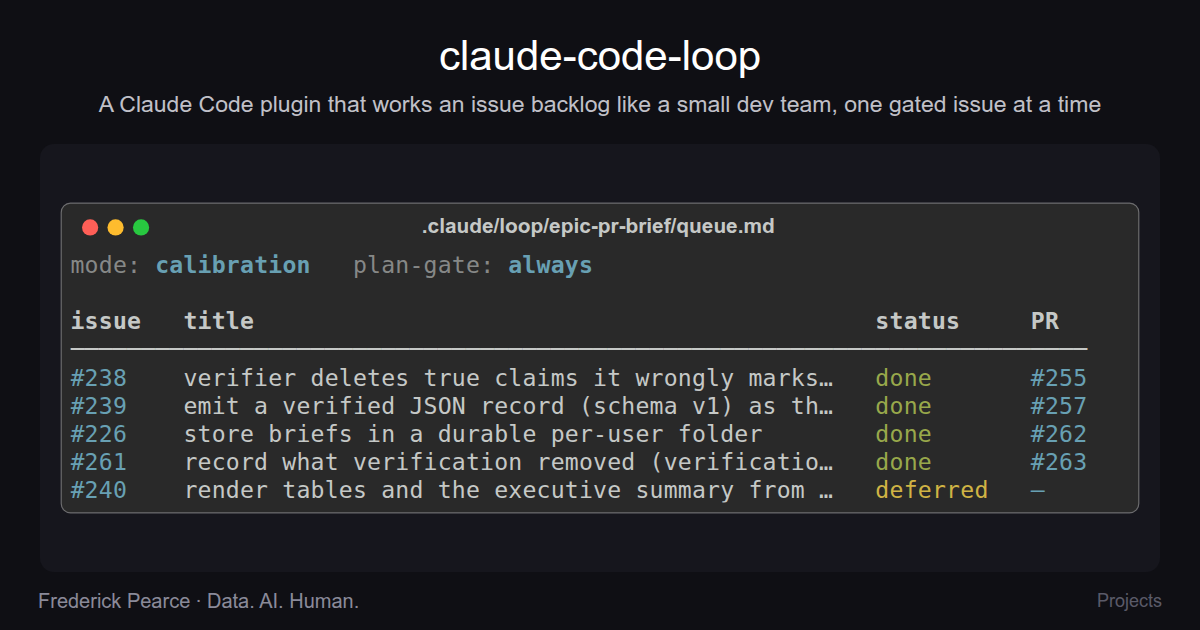
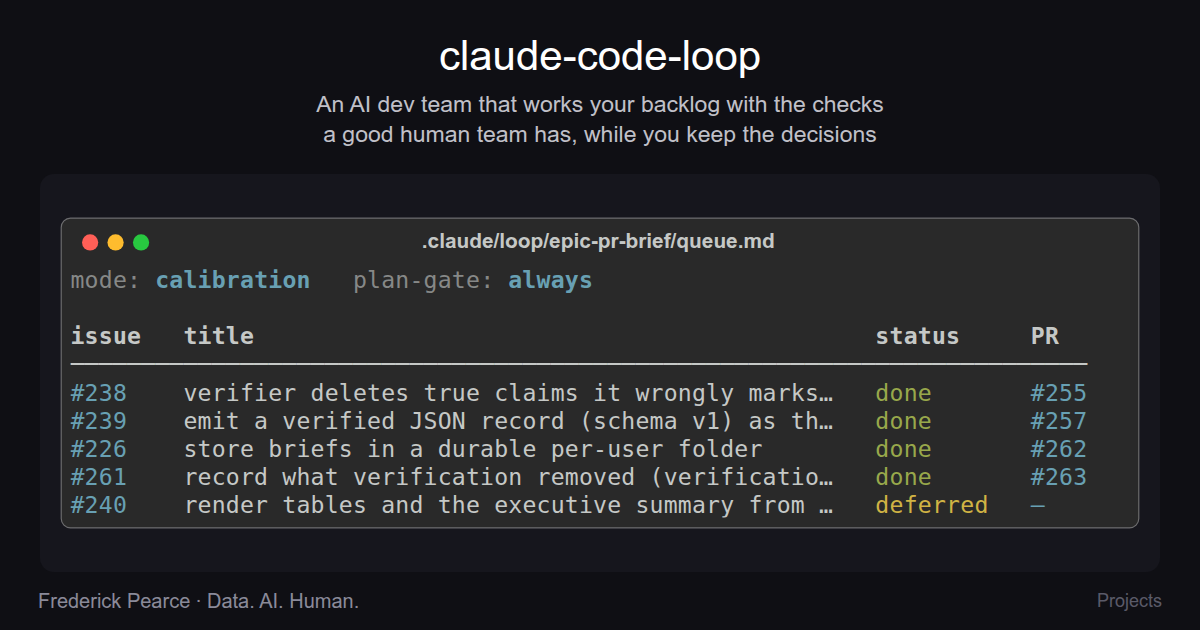
docs: reframe the claude-code-loop page for executive readers
Lead with outcomes (builds the right thing, catches problems early,
takes care with security, keeps the owner in charge with a record,
measures cost), each with a concrete example. Move the mechanics into a
condensed Under the Hood section for developers, cut the AgentFluent
origin to one sentence, soften Status to pre-1.0 with 1.0 coming soon,
and add a soft LinkedIn call to action.

Security wording follows the README: the never-do rules are
instructions, not a sandbox; only the approval stops and the guard
hook are enforced. Jargon in the upper sections is glossed or replaced
after a plain-language review. New description, so the share card is
regenerated.

Claude-Session: https://claude.ai/code/session_01HFowjq2FgHihmDCDL5w1gH

Changed region(s): [[0.0617, 0.3016, 0.9558, 0.8444], [0.0617, 0.1508, 0.925, 0.2413]]

diff --git a/_projects/claude-code-loop.md b/_projects/claude-code-loop.md
@@ -1,7 +1,7 @@
 ---
 layout: page
 title: claude-code-loop
-description: A Claude Code plugin that works an issue backlog like a small dev team, one gated issue at a time
+description: An AI dev team that works your backlog with the checks a good human team has, while you keep the decisions
 img: assets/img/claude_code_loop_ledger.svg
 og_image: https://frederick-douglas-pearce.github.io/assets/img/claude-code-loop-og.png
 importance: 2
@@ -12,48 +12,58 @@ enable_math: false
 
 ## Overview
 
-claude-code-loop is a [Claude Code](https://code.claude.com) plugin, `dev-loop`, that works through a GitHub issue backlog the way a small, disciplined dev team would. Each invocation takes exactly one issue end to end: scope it, plan it, have the plan design-reviewed, implement it on a branch, open the PR, run code review and (where the change calls for it) security review, have an agent that didn't write the code check it against the acceptance criteria, and merge. By default it stops for your approval on every plan before any code is written and on every merge.
+claude-code-loop is an AI dev team that works through your backlog with the checks a good human team has, while you keep the decisions. It runs inside [Claude Code](https://code.claude.com) as a plugin. It takes one issue at a time from your GitHub backlog and carries it from scoping to merge. A product manager agent scopes it, an architect agent reviews the plan when the change calls for it, and the main agent builds it. Other agents review the code, and an agent that didn't write it checks the result. By default it stops for your approval on every plan before any code is written and on every merge.
 
-Everything the loop does is written to a ledger on disk rather than kept in the model's context. That's what lets the next invocation pick up where the last one stopped, whether the session ended with a `/clear`, a compaction, or a crash.
+What that gets you:
 
-It started inside **[AgentFluent](/projects/agentfluent/)**, where a pm agent, an architect agent and Claude already worked as a team, but every handoff between them happened because I typed it, and I often forgot to bring the architect in until a plan was already written. The loop made remembering its job. It ran AgentFluent's v0.10.x and v0.11.0 releases and was then extracted into its own repo so any project can use it. It now drives seven repos, including itself: this repo works its own backlog with the loop it develops.
+- **The right thing gets built.** A feature has to name who it's for, and what would show it's the wrong thing to build, before any code exists.
+- **Problems surface early.** The design is reviewed before code, and the work is never checked by the agent that did it.
+- **Security gets a look.** Built-in security review where the change calls for it, and a short list of rules on what the loop must never do.
+- **You stay in charge, with a record.** Two human approvals, and every gate decision added to a running record on disk.
+- **Cost is measured, not guessed.** I price every session from Claude Code's own records and use the numbers to decide what to change.
+
+It runs today on seven projects, including its own: the loop works its own backlog. It was built inside my **[AgentFluent](/projects/agentfluent/)** project and then pulled out so any project can use it.
 
 <div class="mt-5"></div>
 
 ## A Dev Team, in a Loop
 
-The pipeline is modeled on the roles of a human team. Each role is a binding in a per-project config file, and the plugin ships no agent definitions of its own: the scope and design roles point at subagents you already have.
+The pipeline is modeled on the roles of a human team. Each project's settings file says which agent fills each role. The plugin doesn't come with agents of its own: you point the product manager and architect roles at agents you already have.
 
-| Team role             | What it does in the loop                                                                            |
-| --------------------- | --------------------------------------------------------------------------------------------------- |
-| **Product manager**   | answers scope, priority and requirements questions, and splits an issue too large for one pass      |
-| **Architect**         | reviews the plan before any code is written, read-only, when a trigger fires or the loop is unsure  |
-| **Developer**         | the orchestrator itself: plans, implements, runs your lint, type and test commands, opens the PR    |
-| **Code reviewers**    | parallel read-only reviewers over the diff, each handed the issue's acceptance criteria             |
-| **Security reviewer** | runs where the route and the touched files call for it                                              |
-| **QA**                | a fresh agent that checks every acceptance criterion and whether the tests would catch a regression |
-| **Owner**             | you: approve plans, approve merges, and settle anything the agents disagree on                      |
+| Team role             | What it does in the loop                                                                                                          |
+| --------------------- | --------------------------------------------------------------------------------------------------------------------------------- |
+| **Product manager**   | answers scope, priority and requirements questions, and splits an issue too large for one pass                                    |
+| **Architect**         | reviews the plan before any code is written, when the change calls for it or the loop is unsure; it reads but never edits code    |
+| **Developer**         | the main agent, which also coordinates the others: plans, writes the code, runs your automated checks, opens the pull request     |
+| **Code reviewers**    | several reviewer agents read the change side by side, each given the issue's acceptance criteria (its written definition of done) |
+| **Security reviewer** | runs when the kind of change and the files it touches call for it                                                                 |
+| **QA**                | an agent that didn't do the work checks every acceptance criterion, and whether the tests would catch the code breaking later     |
+| **Owner**             | you: approve plans, approve merges, and settle anything the agents disagree on                                                    |
 
-A business analyst (ba), which keeps a glossary so the roles stop talking past each other, isn't in the engine yet. Two projects have wired one in through their own configs.
+A business analyst agent, which keeps a glossary so the roles stop talking past each other, isn't built into the plugin yet. Two of my projects add one through their own settings files.
 
 <div class="mt-5"></div>
 
-## How It Works
+## What It Gives You
+
+Each step the work must pass before it moves on, whether an agent's review or your approval, is a gate.
 
 <div class="row mt-4">
     <div class="col-md-6 mb-3 mb-md-0">
         <div class="card h-100">
             <div class="card-body">
-                <h3 class="card-title">Routed by risk</h3>
-                <p class="card-text mb-0">Each issue is routed by its labels and the path rules in your config. A <code>code</code> change gets the full pipeline and every gate. <code>research</code> gets a lighter plan, <code>docs</code> skips the architect and security passes, and <code>stub-defer</code> is journaled and left in the backlog.</p>
+                <h3 class="card-title">It builds the right thing</h3>
+                <p class="card-text">Agents have made features easier to build, not easier to choose. Before any code exists, a feature plan has to name who it's for and an observation that would show the feature is the wrong thing to build. An issue too big for one pass goes to the product manager agent for a split. If a plan would deliver less than the issue asks, the cut is recorded on the issue and the removed scope is filed as a new one.</p>
+                <p class="card-text mb-0"><strong>Example:</strong> in my election-data project, a proposed cache fix assumed visitors would request the same uncached page at the same moment. The plan checked a month of the dashboard's logs and found no two requests for the same page within 30 seconds. I closed it with no code written.</p>
             </div>
         </div>
     </div>
     <div class="col-md-6">
         <div class="card h-100">
             <div class="card-body">
-                <h3 class="card-title">Two human gates</h3>
-                <p class="card-text mb-0">The plan gate and the merge gate are set separately, so loosening how much planning you review never loosens what merges without you. Auto-merge exists only for routes you have explicitly graduated, and never for a feature, a breaking change, or anything touching a security surface.</p>
+                <h3 class="card-title">It catches problems early and often</h3>
+                <p class="card-text">When a change calls for it, the architect reviews the plan before any code is written. Review is done by agents that didn't write the code, and a fix is never checked by the agent that wrote it. On a code change that alters behavior, the final QA check also breaks the code on purpose, in a throwaway copy, to see whether the tests notice. Code review asks the same question of any new tests.</p>
+                <p class="card-text mb-0"><strong>Example:</strong> when a reviewer finds a problem serious enough to hold the merge, and it raises a design question, the loop stops and brings it to you, with the architect's ruling on scope attached. It never dismisses the problem on its own.</p>
             </div>
         </div>
     </div>
@@ -63,16 +73,30 @@ A business analyst (ba), which keeps a glossary so the roles stop talking past e
     <div class="col-md-6 mb-3 mb-md-0">
         <div class="card h-100">
             <div class="card-body">
-                <h3 class="card-title">A ledger, not a context window</h3>
-                <p class="card-text mb-0">Each run keeps a work queue, an append-only journal of every gate decision, and a plan per issue under <code>.claude/loop/</code>. On resume, the loop checks each unfinished row against live git and PR state before starting anything new.</p>
+                <h3 class="card-title">It takes care with security</h3>
+                <p class="card-text">There's a built-in security review, run when the kind of change and the files it touches call for it. The loop is instructed never to merge while the automated checks are failing, never to overwrite history on GitHub, to work on one pull request at a time, never to sweep unrelated files into a commit, and never to edit its own settings. Those rules are instructions the agent is told to follow, not a sandbox. What is enforced is narrower: the stops for your approval, and a guard against overwriting the loop's record, within limits the README lists. For a hard boundary, use Claude Code's own permission settings.</p>
+                <p class="card-text mb-0"><strong>Example:</strong> auto-merge is off by default, and even when you turn it on it never applies to a feature, a breaking change, or anything touching security-sensitive code.</p>
             </div>
         </div>
     </div>
     <div class="col-md-6">
         <div class="card h-100">
             <div class="card-body">
-                <h3 class="card-title">Tests that would notice</h3>
-                <p class="card-text mb-0">On a change that alters behavior, the acceptance gate breaks the guarded code on purpose in a throwaway copy of your tree, runs your suite, and reports any test that stayed green. A test that can't fail is protection you think you have and don't.</p>
+                <h3 class="card-title">You stay in charge, with a record</h3>
+                <p class="card-text">You set the two approvals separately: one on the plan, one on the merge. Choosing to review fewer plans never lets more code merge without you. Every gate decision, each agent's review result and each of your approvals, is added to a running record on disk, so the record doesn't depend on the model's memory. The loop picks up where it stopped after the session's working memory is cleared or condensed, or after a crash.</p>
+                <p class="card-text mb-0"><strong>Example:</strong> if the architect materially rewrites a plan, the loop stops and shows you what changed before any code is written. No setting turns that stop off.</p>
+            </div>
+        </div>
+    </div>
+</div>
+
+<div class="row mt-3">
+    <div class="col-12">
+        <div class="card h-100">
+            <div class="card-body">
+                <h3 class="card-title">Cost is measured, not guessed</h3>
+                <p class="card-text">I measure what each session costs from Claude Code's own records, and I've learned that the bill follows how many back-and-forth steps the main agent takes, not how much text it is holding at each step. So the savings come from fewer review rounds, not shorter text. The next lever is a cheaper model for some roles. Early work on it is merged but not released, and today every role uses the main agent's model, so nothing changes yet.</p>
+                <p class="card-text mb-0"><strong>Example:</strong> in the October review, on v0.3.1, the median session working one issue cost $17.61 in the loop's own project and $35.61 in the election-data project, including the other agents it called on, which made up about a third of the cost.</p>
             </div>
         </div>
     </div>
@@ -80,49 +104,32 @@ A business analyst (ba), which keeps a glossary so the roles stop talking past e
 
 <div class="mt-5"></div>
 
-## What Sets It Apart
+## Under the Hood
 
-- **One issue per invocation, end to end.** It's a single supervised orchestrator handling one routed issue at a time, not a graph of agents running in parallel. Re-invoke it for the next issue, or let Claude Code's `/loop` drive it.
-- **A feature has to name its user before any code exists.** A feature plan opens with a map of one to three user stories: who benefits, how often real usage hits it, and a falsifier, an observation that would show the feature is the wrong thing to build. When that check is cheap, the plan runs it. A plan with no credible user goes back to the pm, and the gate has since stopped features in two repos before any code was written.
-- **Scope cut in a plan is recorded, not dropped.** If a plan would deliver less than an acceptance criterion asks, the engine records the amendment on the issue and files the removed scope as a new issue.
-- **A gate that didn't run never counts as passed.** No verdict means not passed. A gate's pass covers only the commit it ran on, and expires if the PR changes afterward. A blank binding in the config falls back to a built-in equivalent or stops and asks; it never quietly turns the gate off.
-- **A fix is never checked by whoever wrote it.** When the loop fixes a review or acceptance finding, a freshly spawned agent decides whether the fix worked. If that one re-check comes back dirty, the loop stops and asks you instead of iterating on itself.
-- **When the architect rewrites the plan, you see the plan.** If design review materially changes the approach, the loop stops and shows you what changed before any code is written. No mode setting reaches that stop.
-- **One engine, one config per project.** Your build commands, branch format, commit convention, merge method and PR template live in one `loop.config.md` that `/init-loop` infers from the repo. The engine itself is never edited per project.
+For developers, a condensed version. The [README](https://github.com/frederick-douglas-pearce/claude-code-loop#readme) has the depth.
 
-<div class="mt-5"></div>
+- **One issue per invocation.** A single supervised orchestrator, not a graph of agents. Re-invoke it for the next issue, or let Claude Code's `/loop` drive it.
+- **Routed by risk.** Each issue is routed by its labels and the path rules in your config. A `code` change gets the full pipeline and every gate. `research` gets a lighter plan, `docs` skips the architect and security passes, and `stub-defer` is journaled and left in the backlog.
+- **A ledger, not a context window.** Each run keeps a work queue, an append-only journal and a plan per issue under `.claude/loop/`. On resume, the loop checks each unfinished row against live git and PR state before starting anything new.
+- **Mutation testing.** On a `code` change that alters behavior, the acceptance gate mutates the guarded code in a throwaway copy of your tree, runs your suite, and reports any test that stayed green.
+- **A gate that didn't run never counts as passed.** No verdict means not passed, and a pass covers only the commit it ran on.
+- **One engine, one config per project.** Your build commands, branch format, commit convention, merge method and PR template live in one `loop.config.md` that `/init-loop` infers from the repo. The engine is never edited per project.
+- **Per-role model tiers.** A `MODEL_TIERS` table in the config binds each role to a tier and an optional effort, for example `mutation: sonnet@medium`. The engine passes only Claude Code's own model aliases, and your environment decides what they resolve to. An entry it can't read falls back to `inherit`. One limit is built in: the implementer is the orchestrating agent itself, so only the session's own model writes the code.
+- **Cost research.** The repo keeps a notebook that reads session transcripts and the ledger's per-iteration budget lines and prices them against a shared [cost specification](https://github.com/frederick-douglas-pearce/claude-code-sessions/blob/main/reference/cost-model.md). It's framed as causal inference, since issue difficulty is an unmeasured confounder. Two repos were held back on an older engine as an untreated control until October 31, when I dropped the control because it had too few runs to support the comparison. A paired benchmark replaces it. The [October cost review](https://github.com/frederick-douglas-pearce/claude-code-loop/blob/main/docs/research/cost-review-2026-10-26.md) has the findings.
 
-## Measuring What a Run Costs
+### Technology Stack
 
-The repo keeps a research notebook on why an iteration costs what it does and what would make it cheaper without making it worse. It reads Claude Code session transcripts and the ledger's per-iteration budget lines, prices them against a shared [cost specification](https://github.com/frederick-douglas-pearce/claude-code-sessions/blob/main/reference/cost-model.md), and is set up as causal inference rather than trend-reading: issue difficulty is an unmeasured confounder, so config levers are estimated as total effects. Two repos were held back on an older engine as an untreated control until October 31, when the control was dropped: it had too few runs to support the comparison, and holding it back kept two repos on a known-defective engine. Every repo now runs the current engine, and a paired benchmark replaces the control.
-
-The [October cost review](https://github.com/frederick-douglas-pearce/claude-code-loop/blob/main/docs/research/cost-review-2026-10-26.md) found that the bill is driven by turns, not context. On v0.3.1 each turn of the orchestrating agent cost about 25k billable-equivalent tokens in both repos measured, so a run costs roughly its turn count times 25k. The three levers shipped before the review all acted on context, and the program's own cost model had priced each at 3–5% of a run, so they barely moved the bill, as the model predicted. The median run cost $17.61 in this repo and $35.61 in the election-data repo, counting every subagent, and subagents were about a third of that. Of the nine levers the review ranks, the largest act on turns: a fresh agent applies review fixes, and review rounds get a ceiling. Deleting engine text, another of the nine, shipped in v0.4.0 and v0.5.0.
-
-<div class="mt-5"></div>
-
-## A Model for Each Role
-
-Every subagent the loop spawns runs on the session's own model, and subagents are about a third of the bill. Per-role model selection ([epic #308](https://github.com/frederick-douglas-pearce/claude-code-loop/issues/308)) lets each project choose the model and effort for each role the loop spawns, to cut cost without lowering quality, and to make it possible to run the loop on models from other providers. The cost review estimates it at 7–15% of the total bill.
-
-A `MODEL_TIERS` table in the project config binds each role to a tier and an optional effort, for example `mutation: sonnet@medium`. The tiers are Claude Code's four model aliases plus `inherit`. The engine never names a provider: the project's environment, through the `ANTHROPIC_DEFAULT_*_MODEL` settings or a gateway, decides which model each alias resolves to. An entry the engine can't read falls back to `inherit`, and each run's budget line records what every spawn was passed.
-
-Only the groundwork exists so far. It merged on November 12 and ships in the next release: the vocabulary, the budget-line slot and the README section, with every role set to `inherit`, so nothing changes yet. Measured presets come next. One of them is an "inverted roster": a cheaper model for the session, with the judgment roles tiered up. After that comes a run on a third-party provider. One limit is built in: the implementer is the orchestrating agent itself, not a spawned role, so only the session's own model writes the code.
-
-<div class="mt-5"></div>
-
-## Technology Stack
-
-- **Engine:** Markdown instructions that the orchestrating agent executes, split into a core read on every invocation and phase units read when needed
+- **Engine:** Markdown instructions that the orchestrating agent executes
 - **Platform:** [Claude Code](https://code.claude.com) plugin, installed from its own marketplace
 - **Integrations:** git and the [GitHub CLI](https://cli.github.com) (`gh`) for issues, pull requests and CI checks
 - **Guard hook and mutation harness:** Python 3.9+, standard library only
-- **Testing:** stdlib `unittest`, run on Python 3.9 through 3.13 in CI, pinning the couplings between files (every parameter the engine reads exists in the onboarding skeleton, the pipeline's step order agrees wherever it's restated)
+- **Testing:** stdlib `unittest`, run on Python 3.9 through 3.13 in CI
 
 <div class="mt-5"></div>
 
 ## Status
 
-At v0.5.0 the plugin is **not yet stable**. Seven repos drive it, and the loop had carried 111 issues to done across the five driving it at the v0.3.0 release in September, the last time the count was taken. That's enough to show the plugin and config split holds under real use, but not enough to call it stable. Findings from real runs are collected in [issue #1](https://github.com/frederick-douglas-pearce/claude-code-loop/issues/1), and reports from repos unlike the current seven are welcome.
+The plugin is at v0.5.0 and in active use on seven projects, and a 1.0 release is coming soon. At the v0.3.0 release in September, the loop had carried 111 issues to done across the five projects using it then, the last time I took the count. That shows one shared plugin, with its own settings file in each project, holds up under real use. Findings from real runs are collected in [issue #1](https://github.com/frederick-douglas-pearce/claude-code-loop/issues/1), and reports from projects unlike the current seven are welcome.
 
 <div class="mt-5"></div>
 
@@ -138,18 +145,28 @@ Before the first run, read the README's section on what the loop can do to your 
 
 <div class="mt-5"></div>
 
-## The Blog Series — _A Cross-Functional Team of One_
+## The Blog Series: _A Cross-Functional Team of One_
 
 _An agent can do every job on a dev team. What it shouldn't do is check its own work._ When the same mind that did the work also checks it, it tends to confirm its own thinking. The series goes gate by gate through how each role in the loop works, the real runs where one nearly let something through, and what changed in the loop afterward. It also covers setting up the loop for your own projects and the cost experiments aimed at making it cheaper without making it weaker.
 
 <a href="{{ '/blog/2026/a-loop-to-remember/' | relative_url }}" class="btn btn-outline-primary me-2">
-  Post 1 — A Loop to Remember
+  Post 1: A Loop to Remember
 </a>
 <a href="{{ '/blog/2026/the-developer-in-the-middle/' | relative_url }}" class="btn btn-outline-primary me-2">
-  Post 2 — The Developer in the Middle
+  Post 2: The Developer in the Middle
 </a>
 <a href="{{ '/blog/category/claude-code-loop/' | relative_url }}" class="btn btn-outline-primary">
   All posts in the series
+</a>
+
+<div class="mt-5"></div>
+
+## Interested in Trying It?
+
+I'm helping organizations build more effectively with AI, and this plugin is a big part of how I work. If you'd like to see it on your backlog, or just want to talk through how it would fit your team, the best place to reach me is LinkedIn.
+
+<a href="https://www.linkedin.com/in/frederick-douglas-pearce/" class="btn btn-outline-primary">
+  <i class="fab fa-linkedin"></i> Find me on LinkedIn
 </a>
 
 <div class="mt-5"></div>
